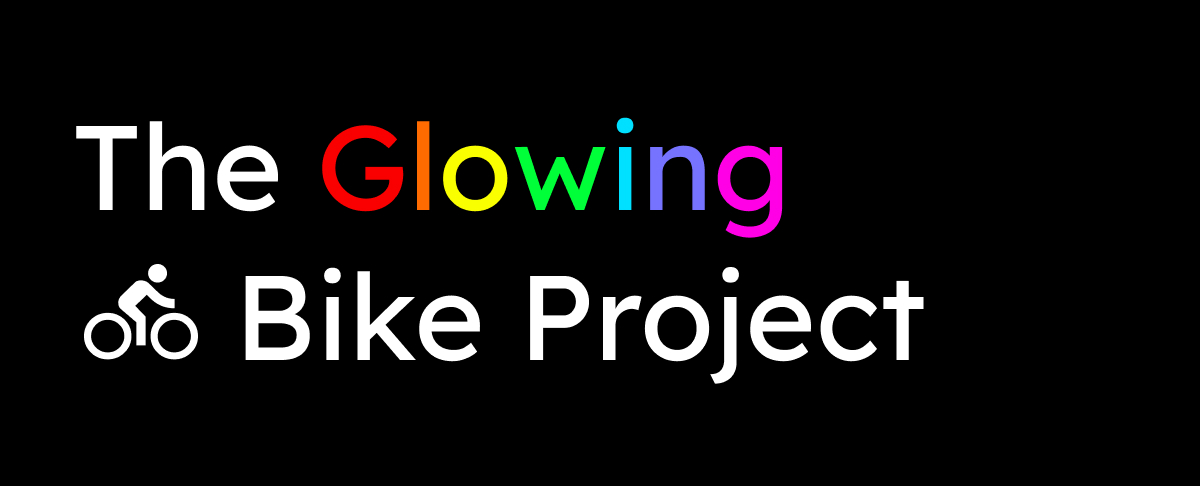
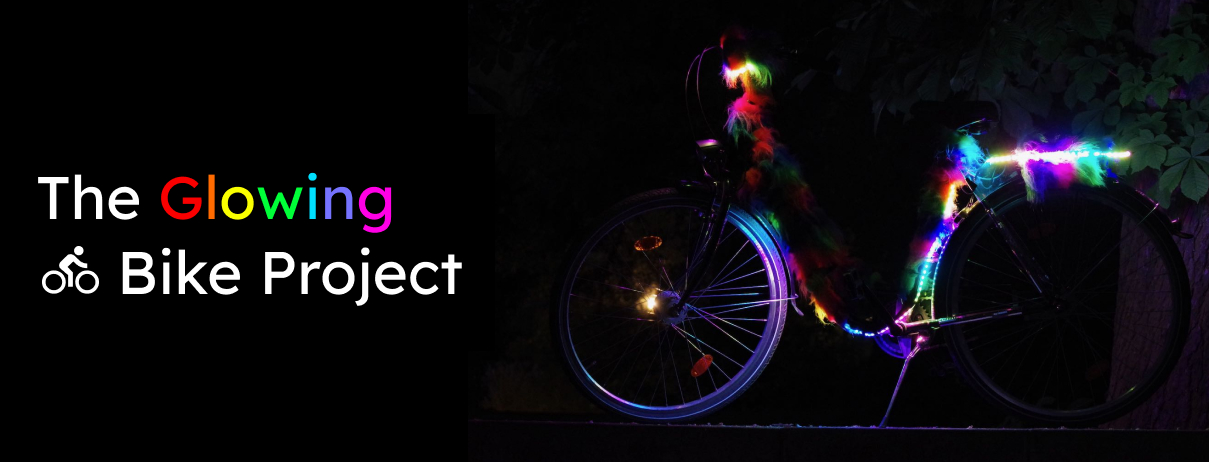
added photos and new headerimage

diff --git a/README.md b/README.md
@@ -1,4 +1,4 @@
-![alt text](/headerimage.jpg "The Glowing Bike Project")
+![The Glowing Bike Project](/headerimage.jpg "The Glowing Bike Project")
 
 Upgrade your bike with LEDs, raibows and turn signals.
 
@@ -8,6 +8,8 @@ Want to support the development financially? Donations are always welcomed!
 [Click here to donate on Liberapay](https://liberapay.com/marcoEDU)
 
 [<img src="http://img.shields.io/liberapay/receives/marcoEDU.svg?logo=liberapay">](https://liberapay.com/marcoEDU)
+
+[Click here](#photos) to see photos of the bike.
 
 ## Features
 
@@ -61,3 +63,20 @@ Want to support the development financially? Donations are always welcomed!
 - fix the fabric, LED strips and wires using cable ties
 
 Done! Turn on all three switches and you are ready to drive:)
+
+
+## Photos
+
+![Photo](/photos/IMGP0449.jpeg "Photo")
+![Photo](/photos/IMGP0452.jpeg "Photo")
+![Photo](/photos/IMGP0469.jpeg "Photo")
+![Photo](/photos/IMGP0473.jpeg "Photo")
+![Photo](/photos/IMGP0475.jpeg "Photo")
+![Photo](/photos/IMGP0476.jpeg "Photo")
+![Photo](/photos/IMGP0478.jpeg "Photo")
+![Photo](/photos/IMGP0484.jpeg "Photo")
+![Photo](/photos/IMGP0491.jpeg "Photo")
+![Photo](/photos/IMGP0496.jpeg "Photo")
+![Photo](/photos/IMGP0497.jpeg "Photo")
+![Photo](/photos/IMGP0507.jpeg "Photo")
+![Photo](/photos/IMGP0508.jpeg "Photo")
